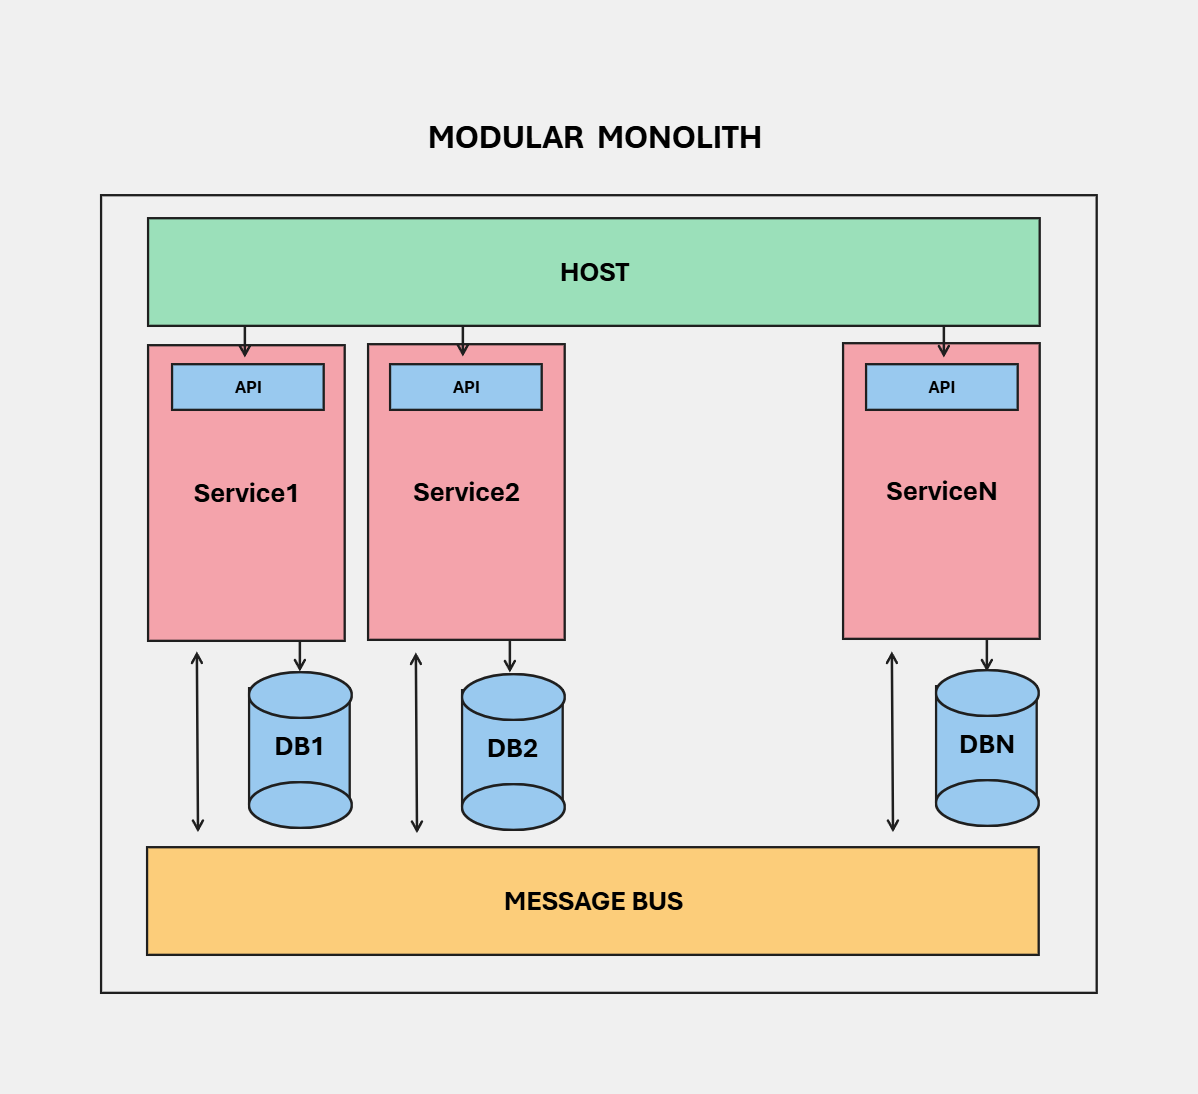
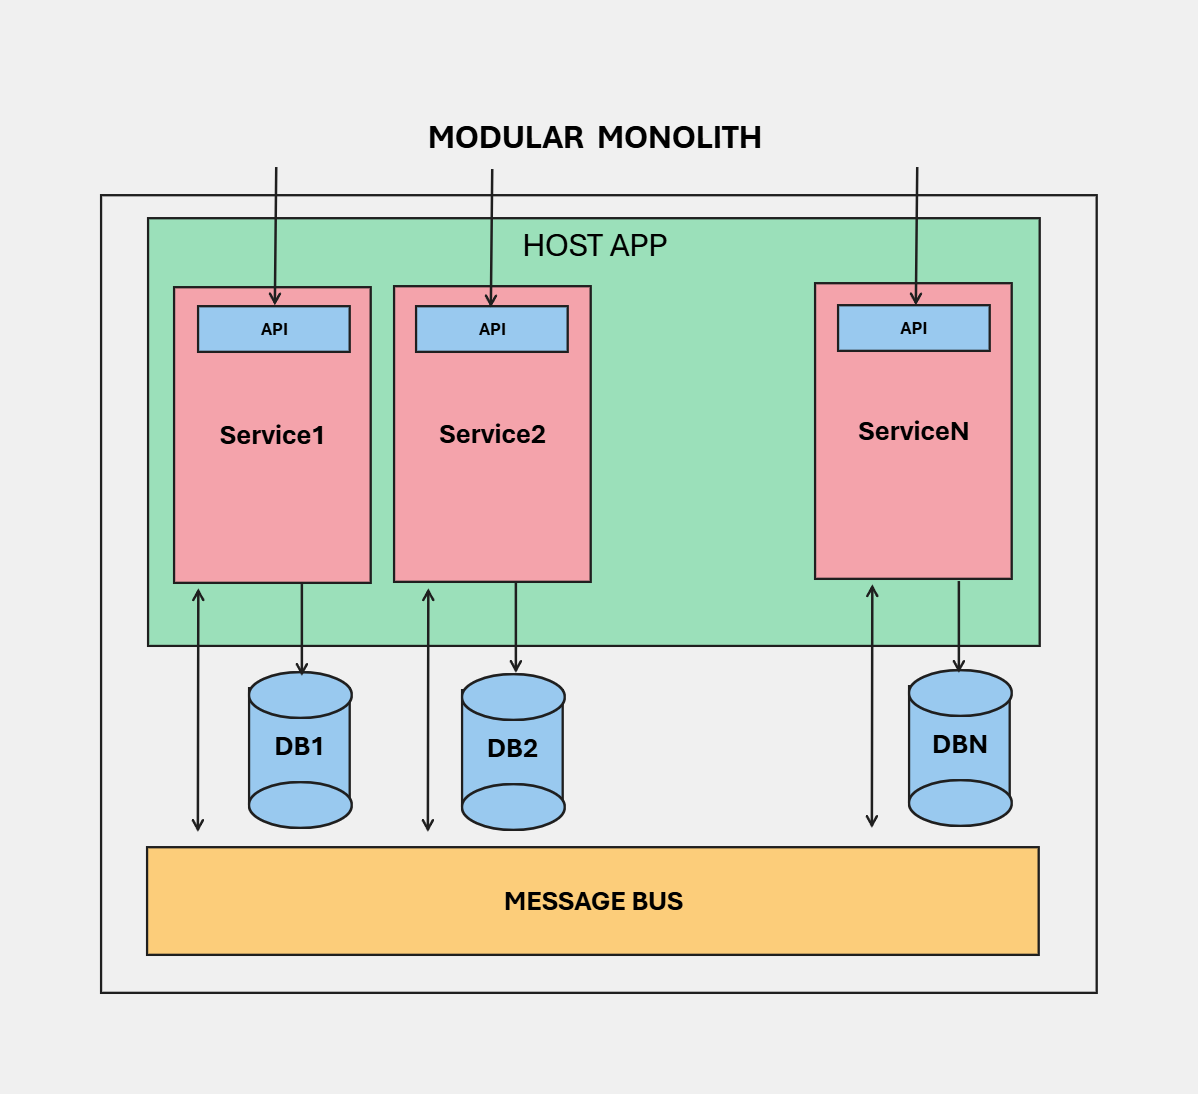
- update readme and design diagram

Changed region(s): [[0.1235, 0.2176, 0.8648, 0.777]]

diff --git a/README.md b/README.md
@@ -2,7 +2,7 @@
 
 This is a template for creating a modular monolith application utilizing vertical slice architecture. Each module is a separate project in the solution, the modules are then combined under a single Host at runtime. Internals of each module is only visible to Host and not to other modules, so that modules can interact with each other only through designated interfaces. Those interfaces may be:
 
-- Through pub/sub messages shared between modules; message contracts are in IntegrationContracts projects for both modules,
+- Through pub/sub messages shared between modules; message contracts are in IntegrationContracts projects for each module,
 - Through Orleans public grain interfaces shared between modules; this template doesn't contain any,
 - Through web apis; though web apis would be better suited for consumption by external applications.
 
@@ -12,7 +12,7 @@ This is a template for creating a modular monolith application utilizing vertica
 
 ## Host
 
-Host is a Web Application co-hosting Microsoft.Orleans server in same process. It is responsible for discovering and registering the modules and their dependencies at runtime along with db context migration jobs of the modules at startup and message publishing jobs from db transactional outbox tables to message bus.
+Host is a Web Application co-hosting Microsoft.Orleans server in same process. It is responsible for discovering and registering the modules and their dependencies at runtime along with db context migration jobs of the modules at startup and message publishing jobs from db outbox tables to message bus.
 
 ## Apis
 
